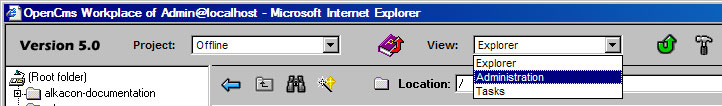
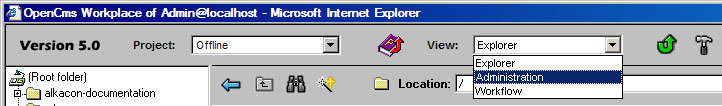
updated documentation: renamed "tasks" to "workflow"

diff --git a/doc/documentation/userguide.tex b/doc/documentation/userguide.tex
@@ -827,7 +827,7 @@ several templates. The editor in OpenCms is only used to edit the body of an HTM
 \subsection{Workflow}
 
 The project manager creates a new task and defines its role by
-clicking on the ``New" button in the ``Tasks" view. A role consists
+clicking on the ``New" button in the ``Workflow" view. A role consists
 of several users that have the skills to perform a specific task
 such as editing, designing graphics, writing HTML code, etc. A
 preferred user is selected for each task. The name, the
@@ -853,8 +853,8 @@ task account.
 \begin{center}
 \includegraphics[width=\sgw]
                    {pics/usermanual/taskView}
-\caption["tasks" view]
-           {"tasks" view}
+\caption["workflow" view]
+           {"workflow" view}
 \label{taskview}
 \end{center}
 \end{figure}
